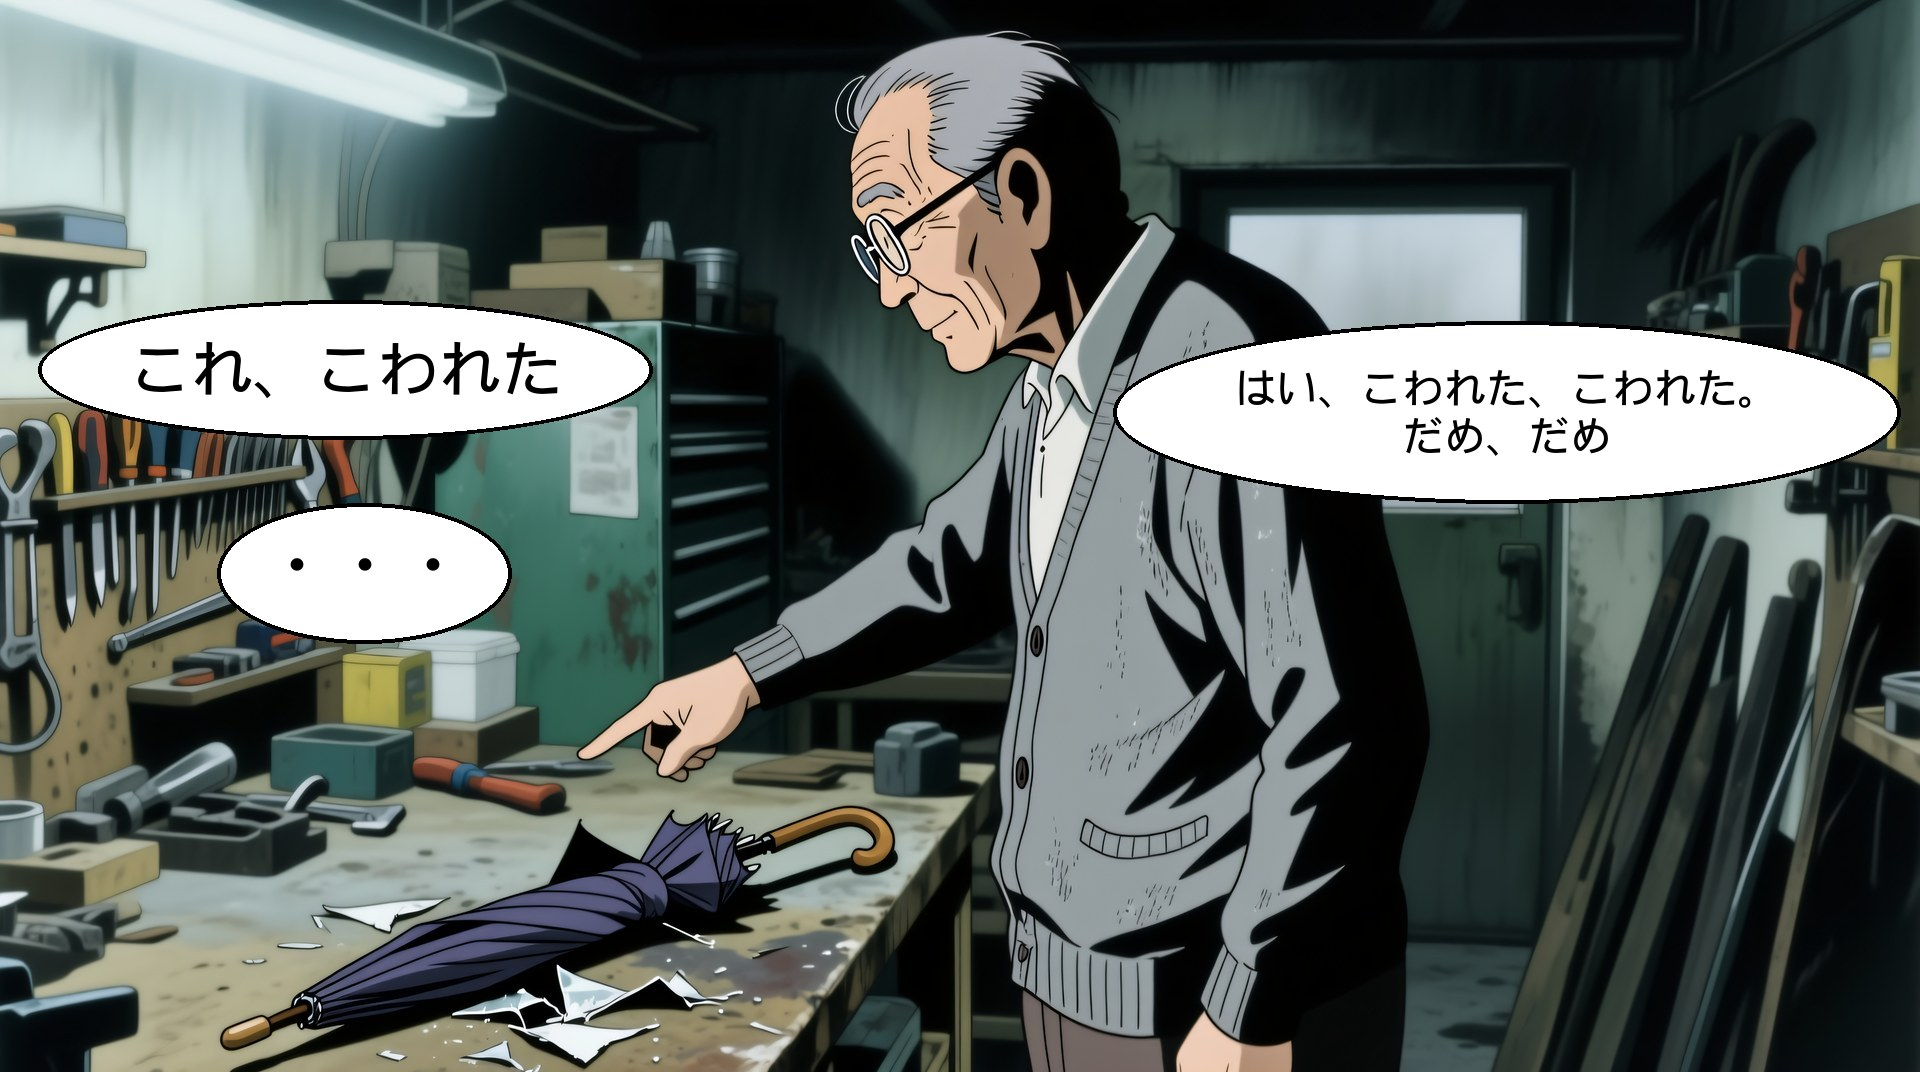
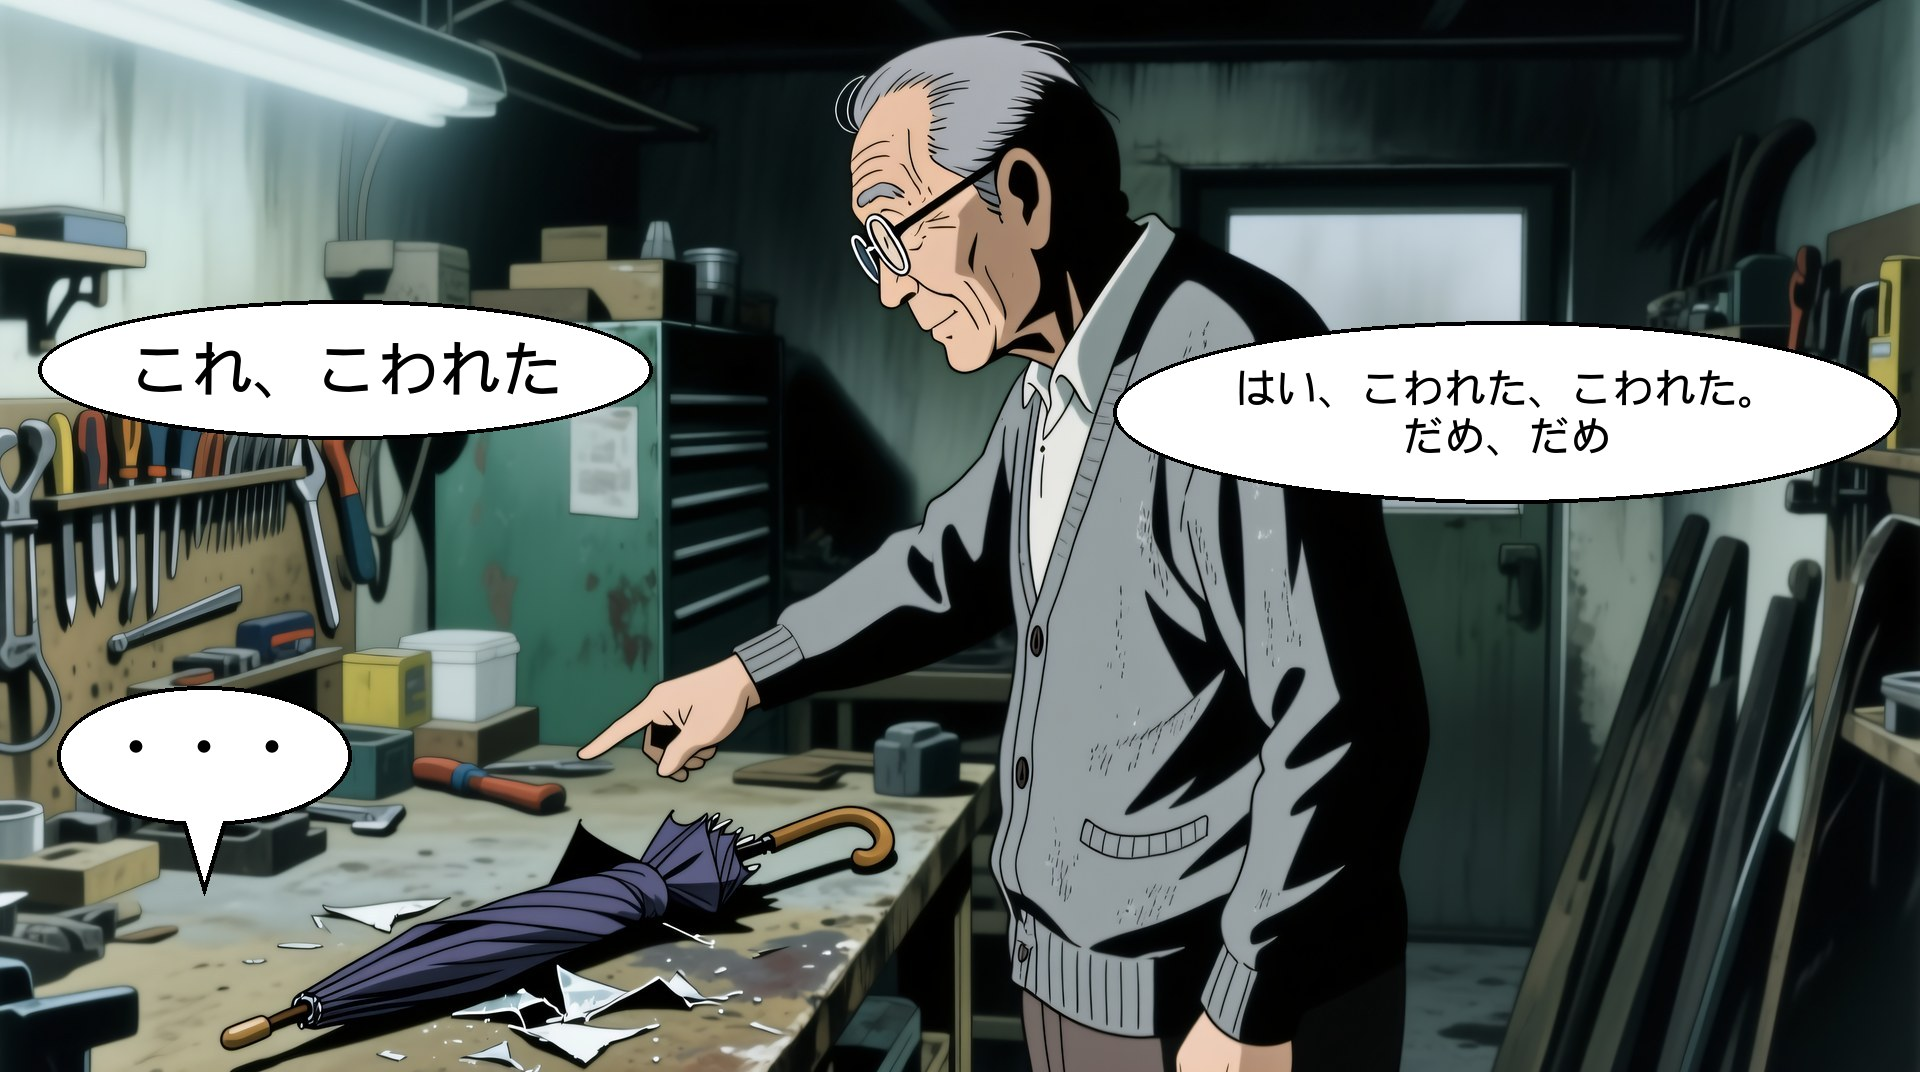
feat(comic): Off-Zeiger für Stimmen außerhalb des Bildes — p03, p04, p06, p08
Claude-Session: https://claude.ai/code/session_01YT3vxdimKnf5CxqKiS26Tx

Changed region(s): [[0.0938, 0.4618, 0.2812, 0.6157], [0.0312, 0.6157, 0.1875, 0.8312]]

diff --git a/lib/features/story/episodes/folge_01_layout.g.dart b/lib/features/story/episodes/folge_01_layout.g.dart
@@ -19,34 +19,34 @@ const List<Map<String, double>> f01HitHochP01B0 = [
 
 /// p03 quer: すみません！あめ！あめ！
 const List<Map<String, double>> f01HitQuerP03B0 = [
-  {'x': 0.73, 'y': 0.1},
-  {'x': 0.99, 'y': 0.1},
-  {'x': 0.99, 'y': 0.22},
-  {'x': 0.73, 'y': 0.22},
+  {'x': 0.725, 'y': 0.1},
+  {'x': 0.96, 'y': 0.1},
+  {'x': 0.96, 'y': 0.22},
+  {'x': 0.725, 'y': 0.22},
 ];
 
 /// p03 quer: ありがとう！あめ、あめ… さむい、さむい
 const List<Map<String, double>> f01HitQuerP03B1 = [
-  {'x': 0.03, 'y': 0.3},
-  {'x': 0.41, 'y': 0.3},
-  {'x': 0.41, 'y': 0.46},
-  {'x': 0.03, 'y': 0.46},
+  {'x': 0.06, 'y': 0.7},
+  {'x': 0.44, 'y': 0.7},
+  {'x': 0.44, 'y': 0.86},
+  {'x': 0.06, 'y': 0.86},
 ];
 
 /// p03 hoch: すみません！あめ！あめ！
 const List<Map<String, double>> f01HitHochP03B0 = [
-  {'x': 0.1, 'y': 0.19},
-  {'x': 0.6, 'y': 0.19},
-  {'x': 0.6, 'y': 0.26},
-  {'x': 0.1, 'y': 0.26},
+  {'x': 0.45, 'y': 0.74},
+  {'x': 0.82, 'y': 0.74},
+  {'x': 0.82, 'y': 0.815},
+  {'x': 0.45, 'y': 0.815},
 ];
 
 /// p03 hoch: ありがとう！あめ、あめ… さむい、さむい
 const List<Map<String, double>> f01HitHochP03B1 = [
-  {'x': 0.16, 'y': 0.455},
-  {'x': 0.88, 'y': 0.455},
-  {'x': 0.88, 'y': 0.545},
-  {'x': 0.16, 'y': 0.545},
+  {'x': 0.17, 'y': 0.86},
+  {'x': 0.77, 'y': 0.86},
+  {'x': 0.77, 'y': 0.935},
+  {'x': 0.17, 'y': 0.935},
 ];
 
 /// p04 quer: 傘
@@ -59,10 +59,10 @@ const List<Map<String, double>> f01HitQuerP04B0 = [
 
 /// p04 quer: …
 const List<Map<String, double>> f01HitQuerP04B1 = [
-  {'x': 0.8005, 'y': 0.12},
-  {'x': 0.8995, 'y': 0.12},
-  {'x': 0.8995, 'y': 0.24},
-  {'x': 0.8005, 'y': 0.24},
+  {'x': 0.8005, 'y': 0.68},
+  {'x': 0.8995, 'y': 0.68},
+  {'x': 0.8995, 'y': 0.8},
+  {'x': 0.8005, 'y': 0.8},
 ];
 
 /// p04 hoch: 傘
@@ -75,10 +75,10 @@ const List<Map<String, double>> f01HitHochP04B0 = [
 
 /// p04 hoch: …
 const List<Map<String, double>> f01HitHochP04B1 = [
-  {'x': 0.6045, 'y': 0.19},
-  {'x': 0.7755, 'y': 0.19},
-  {'x': 0.7755, 'y': 0.26},
-  {'x': 0.6045, 'y': 0.26},
+  {'x': 0.6045, 'y': 0.78},
+  {'x': 0.7755, 'y': 0.78},
+  {'x': 0.7755, 'y': 0.85},
+  {'x': 0.6045, 'y': 0.85},
 ];
 
 /// p05 quer: ここ、ここ！
@@ -163,10 +163,10 @@ const List<Map<String, double>> f01HitQuerP06B1 = [
 
 /// p06 quer: …
 const List<Map<String, double>> f01HitQuerP06B2 = [
-  {'x': 0.1135, 'y': 0.47},
-  {'x': 0.2665, 'y': 0.47},
-  {'x': 0.2665, 'y': 0.6},
-  {'x': 0.1135, 'y': 0.6},
+  {'x': 0.03, 'y': 0.64},
+  {'x': 0.183, 'y': 0.64},
+  {'x': 0.183, 'y': 0.77},
+  {'x': 0.03, 'y': 0.77},
 ];
 
 /// p06 hoch: これ、こわれた
@@ -187,10 +187,10 @@ const List<Map<String, double>> f01HitHochP06B1 = [
 
 /// p06 hoch: …
 const List<Map<String, double>> f01HitHochP06B2 = [
-  {'x': 0.523, 'y': 0.855},
-  {'x': 0.757, 'y': 0.855},
-  {'x': 0.757, 'y': 0.935},
-  {'x': 0.523, 'y': 0.935},
+  {'x': 0.3, 'y': 0.855},
+  {'x': 0.534, 'y': 0.855},
+  {'x': 0.534, 'y': 0.935},
+  {'x': 0.3, 'y': 0.935},
 ];
 
 /// p07 quer: はい。かさ。どうぞ
@@ -259,18 +259,18 @@ const List<Map<String, double>> f01HitHochP07B3 = [
 
 /// p08 quer: はいはい
 const List<Map<String, double>> f01HitQuerP08B0 = [
-  {'x': 0.03, 'y': 0.28},
-  {'x': 0.27, 'y': 0.28},
-  {'x': 0.27, 'y': 0.4},
-  {'x': 0.03, 'y': 0.4},
+  {'x': 0.05, 'y': 0.5},
+  {'x': 0.29, 'y': 0.5},
+  {'x': 0.29, 'y': 0.62},
+  {'x': 0.05, 'y': 0.62},
 ];
 
 /// p08 hoch: はいはい
 const List<Map<String, double>> f01HitHochP08B0 = [
-  {'x': 0.1, 'y': 0.39},
-  {'x': 0.46, 'y': 0.39},
-  {'x': 0.46, 'y': 0.46},
-  {'x': 0.1, 'y': 0.46},
+  {'x': 0.17, 'y': 0.64},
+  {'x': 0.53, 'y': 0.64},
+  {'x': 0.53, 'y': 0.71},
+  {'x': 0.17, 'y': 0.71},
 ];
 
 /// p09 quer: あめやどり

diff --git a/tool/comic/letter_folge01.py b/tool/comic/letter_folge01.py
@@ -10,6 +10,12 @@ ueber das Bild legt (Erzaehlkasten oben, Mitmach-/Reaktionszeile unten). Eine Bl
 eine davon schneidet → ÜBERLAGERUNG (gleiche Ellipsen-Rechteck-Mathematik wie bei Gesichtern).
 Mindest-Schrift: faellt fit_font unter MIN_FONT (quer 34 px auf 1920 breit, hoch 30 px auf 1080
 breit) → KLEINSCHRIFT; Abhilfe ist immer eine groessere Blase im Layout, nie kleinere Schrift.
+Off-Zeiger: eine Blase mit "off": "left"|"right"|"top"|"bottom" spricht von ausserhalb des Bildes
+(Sprecher steht in dieser Richtung hinter dem Bildrand) und bekommt einen kurzen, spitz zulaufenden
+Zeiger (0,5 × Blasenhoehe lang) vom Ovalrand zu diesem Bildrand — gleiche Fuellung/Kontur wie das Oval.
+Der Zeiger-Keil wird wie die Ellipse auf Gesichter (GESICHT VERDECKT), Nogo-Zonen (ÜBERLAGERUNG),
+sichere Zone und Bildrand (SICHERE ZONE) geprueft; die Tippflaeche bleibt das Oval-Rechteck.
+Blasen ohne "off" werden unveraendert (byte-gleich) gezeichnet.
 Die Reihenfolge der Blasen je Panel und Format in folge01_layout.json ist verbindlich und muss der
 Reihenfolge in lib/features/story/episodes/folge_01_regen.dart entsprechen (geprueft von
 test/features/story/folge_01_layout_test.dart).
@@ -39,6 +45,62 @@ def _overlaps(slot, face):
     px = min(max(cx, fx), fx + fw)
     py = min(max(cy, fy), fy + fh)
     return ((px - cx) / rx) ** 2 + ((py - cy) / ry) ** 2 <= 1.0
+
+
+def _tri_hits_rect(tri, rect):
+    """Schneidet das Dreieck tri [(x,y)*3] das Rechteck rect [x,y,w,h]? (Trennachsen-Test)"""
+    rx, ry, rw, rh = rect
+    corners = [(rx, ry), (rx + rw, ry), (rx + rw, ry + rh), (rx, ry + rh)]
+    axes = [(1.0, 0.0), (0.0, 1.0)]
+    for i in range(3):
+        (ax, ay), (bx, by) = tri[i], tri[(i + 1) % 3]
+        axes.append((by - ay, ax - bx))
+    for nx, ny in axes:
+        t = [px * nx + py * ny for px, py in tri]
+        c = [px * nx + py * ny for px, py in corners]
+        if max(t) < min(c) or max(c) < min(t):
+            return False
+    return True
+
+
+OFF_DIRS = ("left", "right", "top", "bottom")
+TAIL_LEN = 0.5    # Zeigerlaenge ab Ovalrand, Anteil der Blasenhoehe
+TAIL_BASE = 0.4   # Zeigerbreite am Ansatz, Anteil der Blasenhoehe
+TAIL_SINK = 0.3   # Ansatz so weit (Anteil der kleinen Halbachse) ins Oval versenkt -> nahtloser Uebergang
+
+
+def tail_points(box, off):
+    """Zeiger-Keil einer Off-Blase in Pixeln: [Ansatz1, Ansatz2, Spitze]. box = (x0, y0, x1, y1) des Ovals."""
+    x0, y0, x1, y1 = box
+    cx, cy, rx, ry = (x0 + x1) / 2, (y0 + y1) / 2, (x1 - x0) / 2, (y1 - y0) / 2
+    h = y1 - y0
+    length, hb, sink = TAIL_LEN * h, TAIL_BASE * h / 2, TAIL_SINK * min(rx, ry)
+    if off in ("left", "right"):
+        s = 1 if off == "right" else -1
+        bx = cx + s * (rx * math.sqrt(1 - (hb / ry) ** 2) - sink)
+        return [(bx, cy - hb), (bx, cy + hb), (cx + s * (rx + length), cy)]
+    s = 1 if off == "bottom" else -1
+    by = cy + s * (ry * math.sqrt(1 - min(1.0, hb / rx) ** 2) - sink)
+    return [(cx - hb, by), (cx + hb, by), (cx, cy + s * (ry + length))]
+
+
+def tail_norm(b, W, H):
+    """Zeiger-Keil bildnormiert (fuer die Pruefung) oder None ohne "off"."""
+    if not b.get("off"):
+        return None
+    x, y, w, h = b["rect"]
+    return [(px / W, py / H) for px, py in tail_points((x * W, y * H, (x + w) * W, (y + h) * H), b["off"])]
+
+
+def _shrink(tri, d):
+    """Dreieck um d Pixel nach innen versetzt (Streckung um den Inkreismittelpunkt)."""
+    (ax, ay), (bx, by), (cx, cy) = tri
+    a, b, c = math.dist((bx, by), (cx, cy)), math.dist((ax, ay), (cx, cy)), math.dist((ax, ay), (bx, by))
+    p = a + b + c
+    ix, iy = (a * ax + b * bx + c * cx) / p, (a * ay + b * by + c * cy) / p
+    area = abs((bx - ax) * (cy - ay) - (cx - ax) * (by - ay)) / 2
+    k = max(0.0, 1 - d / (2 * area / p))
+    return [(ix + (px - ix) * k, iy + (py - iy) * k) for px, py in tri]
 
 
 def _in_safe_zone(rect, fmt, safe):
@@ -72,6 +134,21 @@ def check_layout(layout):
                         msgs.append("ÜBERLAGERUNG %s %s %r rect=%s nogo=%s" % (pid, fmt, b["text"], b["rect"], zone))
                 if not _in_safe_zone(b["rect"], fmt, safe):
                     msgs.append("SICHERE ZONE %s %s %r rect=%s" % (pid, fmt, b["text"], b["rect"]))
+                if "off" in b and b["off"] not in OFF_DIRS:
+                    msgs.append("ZEIGER %s %s %r off=%r (erlaubt: %s)" % (pid, fmt, b["text"], b["off"], "/".join(OFF_DIRS)))
+                elif b.get("off"):
+                    tri = tail_norm(b, W, H)
+                    xs, ys = [p[0] for p in tri], [p[1] for p in tri]
+                    bbox = [min(xs), min(ys), max(xs) - min(xs), max(ys) - min(ys)]
+                    for face in spec.get("faces", []):
+                        if _tri_hits_rect(tri, face):
+                            msgs.append("GESICHT VERDECKT %s %s %r Zeiger=%s face=%s" % (pid, fmt, b["text"], b["off"], face))
+                    for zone in spec.get("nogo", []):
+                        if _tri_hits_rect(tri, zone):
+                            msgs.append("ÜBERLAGERUNG %s %s %r Zeiger=%s nogo=%s" % (pid, fmt, b["text"], b["off"], zone))
+                    if not _in_safe_zone(bbox, fmt, safe) or min(xs) < 0 or min(ys) < 0 or max(xs) > 1 or max(ys) > 1:
+                        msgs.append("SICHERE ZONE %s %s %r Zeiger=%s bbox=%s" % (pid, fmt, b["text"], b["off"],
+                                                                              [round(v, 4) for v in bbox]))
                 size = bubble_font(draw, b, W, H)[1].size
                 if size < MIN_FONT[fmt]:
                     msgs.append("KLEINSCHRIFT %s %s %s %dpx" % (pid, fmt, b["text"], size))
@@ -136,7 +213,15 @@ def letter(img, bubbles):
     for b in bubbles:
         furi = b.get("furigana")
         box, font, reserve, shown = bubble_font(draw, b, W, H)
-        draw.ellipse(box, fill="white", outline="black", width=4)
+        if b.get("off"):
+            # Zeiger + Oval als eine Form: schwarzer Keil, weisses Oval mit Kontur darueber,
+            # dann der um die Konturbreite geschrumpfte weisse Keil (loescht die Naht am Ansatz).
+            tri = tail_points(box, b["off"])
+            draw.polygon(tri, fill="black")
+            draw.ellipse(box, fill="white", outline="black", width=4)
+            draw.polygon(_shrink(tri, 4), fill="white")
+        else:
+            draw.ellipse(box, fill="white", outline="black", width=4)
         l, t, r, bb = draw.multiline_textbbox((0, 0), shown, font=font)
         cx = (box[0] + box[2]) / 2 - (r - l) / 2 - l
         cy = (box[1] + box[3]) / 2 - (bb - t) / 2 - t + reserve / 2

diff --git a/tool/comic/test_letter.py b/tool/comic/test_letter.py
@@ -70,6 +70,64 @@ class CheckLayout(unittest.TestCase):
         self.assertEqual(lf.out_name("p02", "hoch", reaction=True), "p02_reaction_hoch.jpg")
 
 
+class OffTail(unittest.TestCase):
+    """Off-Zeiger: Keil vom Ovalrand zum Bildrand, wird wie die Ellipse geprueft."""
+
+    def off_layout(self, rect, off, face=None, fmt="quer"):
+        lay = layout(rect, face=face, fmt=fmt)
+        lay["panels"]["p01"][fmt]["bubbles"][0]["off"] = off
+        return lay
+
+    def test_tail_points_toward_edge(self):
+        box = (100.0, 200.0, 500.0, 300.0)   # Oval 400 x 100, Mitte (300, 250)
+        tips = {off: lf.tail_points(box, off)[2] for off in lf.OFF_DIRS}
+        self.assertEqual(tips["right"], (550.0, 250.0))   # 0,5 x Hoehe hinter dem Ovalrand
+        self.assertEqual(tips["left"], (50.0, 250.0))
+        self.assertEqual(tips["bottom"], (300.0, 350.0))
+        self.assertEqual(tips["top"], (300.0, 150.0))
+        for off in lf.OFF_DIRS:   # Ansatz liegt im Oval → nahtlose Form
+            for px, py in lf.tail_points(box, off)[:2]:
+                self.assertLess(((px - 300) / 200) ** 2 + ((py - 250) / 50) ** 2, 1.0, off)
+
+    def test_tail_clear_is_ok(self):
+        self.assertEqual(lf.check_layout(self.off_layout([0.2, 0.2, 0.3, 0.1], "left")), [])
+
+    def test_tail_over_face_is_violation(self):
+        # Gesicht rechts neben dem Oval: Oval frei, nur der Zeiger nach rechts trifft es
+        rect, face = [0.2, 0.2, 0.3, 0.1], [0.51, 0.24, 0.03, 0.02]
+        self.assertEqual(lf.check_layout(layout(rect, face=face)), [])
+        msgs = lf.check_layout(self.off_layout(rect, "right", face=face))
+        self.assertEqual(len(msgs), 1, msgs)
+        self.assertTrue(msgs[0].startswith("GESICHT VERDECKT p01 quer") and "Zeiger=right" in msgs[0], msgs)
+        self.assertEqual(lf.check_layout(self.off_layout(rect, "left", face=face)), [])
+
+    def test_tail_over_nogo_and_out_of_safe_zone(self):
+        lay = self.off_layout([0.2, 0.3, 0.3, 0.1], "top")
+        lay["panels"]["p01"]["quer"]["nogo"] = [[0.0, 0.0, 1.0, 0.27]]
+        self.assertTrue(any(m.startswith("ÜBERLAGERUNG") and "Zeiger=top" in m for m in lf.check_layout(lay)))
+        msgs = lf.check_layout(self.off_layout([0.2, 0.11, 0.3, 0.1], "top"))
+        self.assertTrue(any(m.startswith("SICHERE ZONE") and "Zeiger=top" in m for m in msgs), msgs)
+        msgs = lf.check_layout(self.off_layout([0.12, 0.3, 0.3, 0.06], "left", fmt="hoch"))
+        self.assertTrue(any(m.startswith("SICHERE ZONE") and "Zeiger=left" in m for m in msgs), msgs)
+
+    def test_bad_direction(self):
+        msgs = lf.check_layout(self.off_layout([0.2, 0.2, 0.3, 0.1], "up"))
+        self.assertTrue(msgs and msgs[0].startswith("ZEIGER p01 quer"), msgs)
+
+    def test_tail_drawn_only_with_off(self):
+        from PIL import Image
+        rect = [0.2, 0.3, 0.3, 0.2]
+        plain = lf.letter(Image.new("RGB", (1600, 800), (90, 90, 90)), [{"text": "…", "rect": rect}])
+        tailed = lf.letter(Image.new("RGB", (1600, 800), (90, 90, 90)), [{"text": "…", "rect": rect, "off": "right"}])
+        # Oval x 320–800, y 240–400 (Mitte y 320, Hoehe 160 → Zeiger 80 px bis x 880)
+        self.assertEqual(plain.getpixel((830, 320)), (90, 90, 90))
+        self.assertEqual(tailed.getpixel((830, 320)), (255, 255, 255))
+        self.assertEqual(tailed.getpixel((890, 320)), (90, 90, 90))
+        # keine Naht: an der Ovalkontur (x 797) auf Mittelhoehe ist es mit Zeiger weiss
+        self.assertEqual(plain.getpixel((797, 320)), (0, 0, 0))
+        self.assertEqual(tailed.getpixel((797, 320)), (255, 255, 255))
+
+
 class Wrap(unittest.TestCase):
     def test_short_stays_one_line(self):
         self.assertEqual(lf.wrap("みなみまち駅"), "みなみまち駅")

diff --git a/tool/comic/gen_layout_dart.py b/tool/comic/gen_layout_dart.py
@@ -2,6 +2,7 @@
 """Erzeugt lib/features/story/episodes/folge_01_layout.g.dart aus folge01_layout.json (INV-14).
 Formatiert die Ausgabe am Ende selbst mit `dart format` (bricht ab, wenn dart fehlt), damit die
 eingecheckte Datei byteweise dem Generator-Lauf entspricht.
+Tippflaeche = Oval-Rechteck "rect"; ein Off-Zeiger ("off") gehoert nicht zur Tippflaeche und wird ignoriert.
 Aufruf im Repo-Wurzelverzeichnis: python3 tool/comic/gen_layout_dart.py"""
 import json
 import os

diff --git a/tool/comic/README.md b/tool/comic/README.md
@@ -183,6 +183,11 @@ Prüfregeln von `check_layout` (alle Meldungen werden gesammelt, dann bricht das
   - Mitmach-/Reaktionszeile unten (Panels mit `interactions`, p02/p05/p08): hoch y ab 0,86, quer y ab
     0,80, volle Breite.
   Ändern sich Erzähltexte oder Overlay-Layout in der App, die Zonen neu messen.
+- Off-Zeiger: `"off": "left"|"right"|"top"|"bottom"` an einer Blase heißt „Sprecher steht außerhalb
+  des Bildes in dieser Richtung" — das Lettering zeichnet dann einen kurzen Keil (0,5 × Blasenhöhe)
+  vom Oval zu diesem Bildrand; der Keil wird wie die Ellipse auf `GESICHT VERDECKT`, `ÜBERLAGERUNG`
+  und `SICHERE ZONE` (inkl. Bildrand) geprüft, ein unbekannter Wert meldet `ZEIGER`. Die Tippfläche
+  bleibt das Oval-Rechteck. Pflicht für jede Blase, deren Sprecher nicht im Bild ist.
 - `KLEINSCHRIFT` — die größte passende Schrift liegt unter der Mindestgröße (quer 34 px auf 1920
   breit, hoch 30 px auf 1080 breit). Abhilfe: Blase im Layout vergrößern oder für lange Aufzählungen
   `"lines": 4` setzen — nie die Schrift verkleinern.
